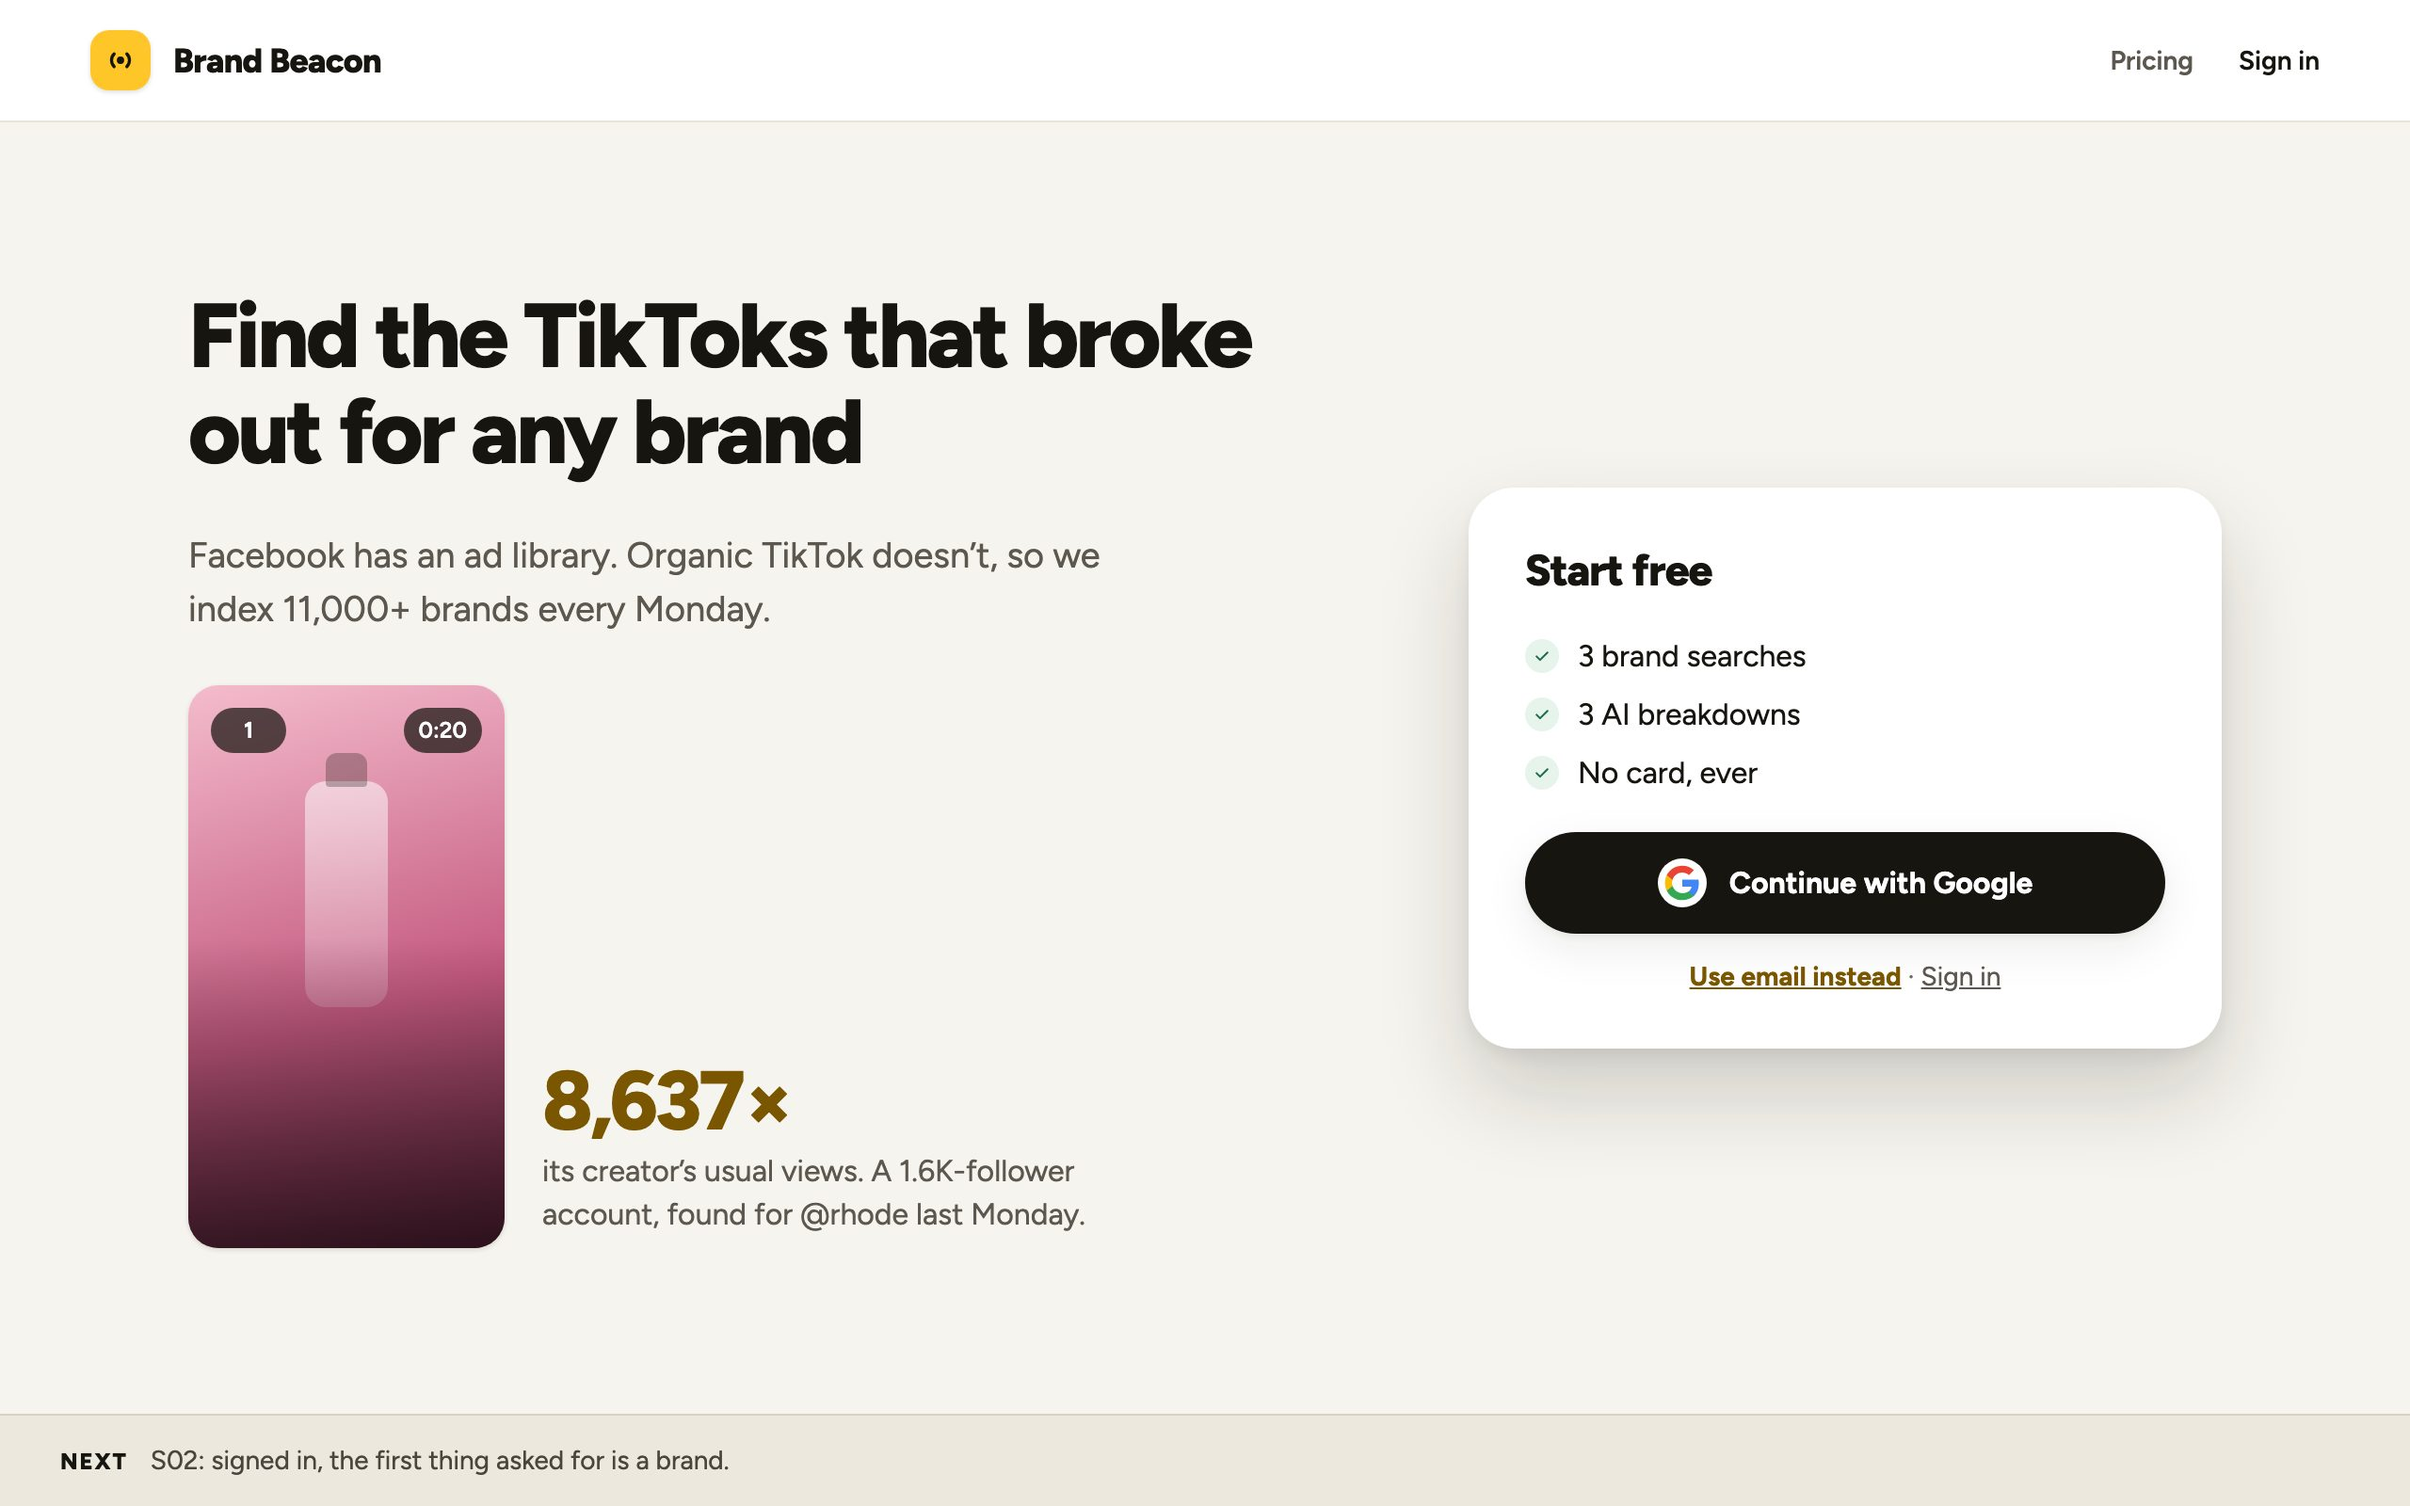
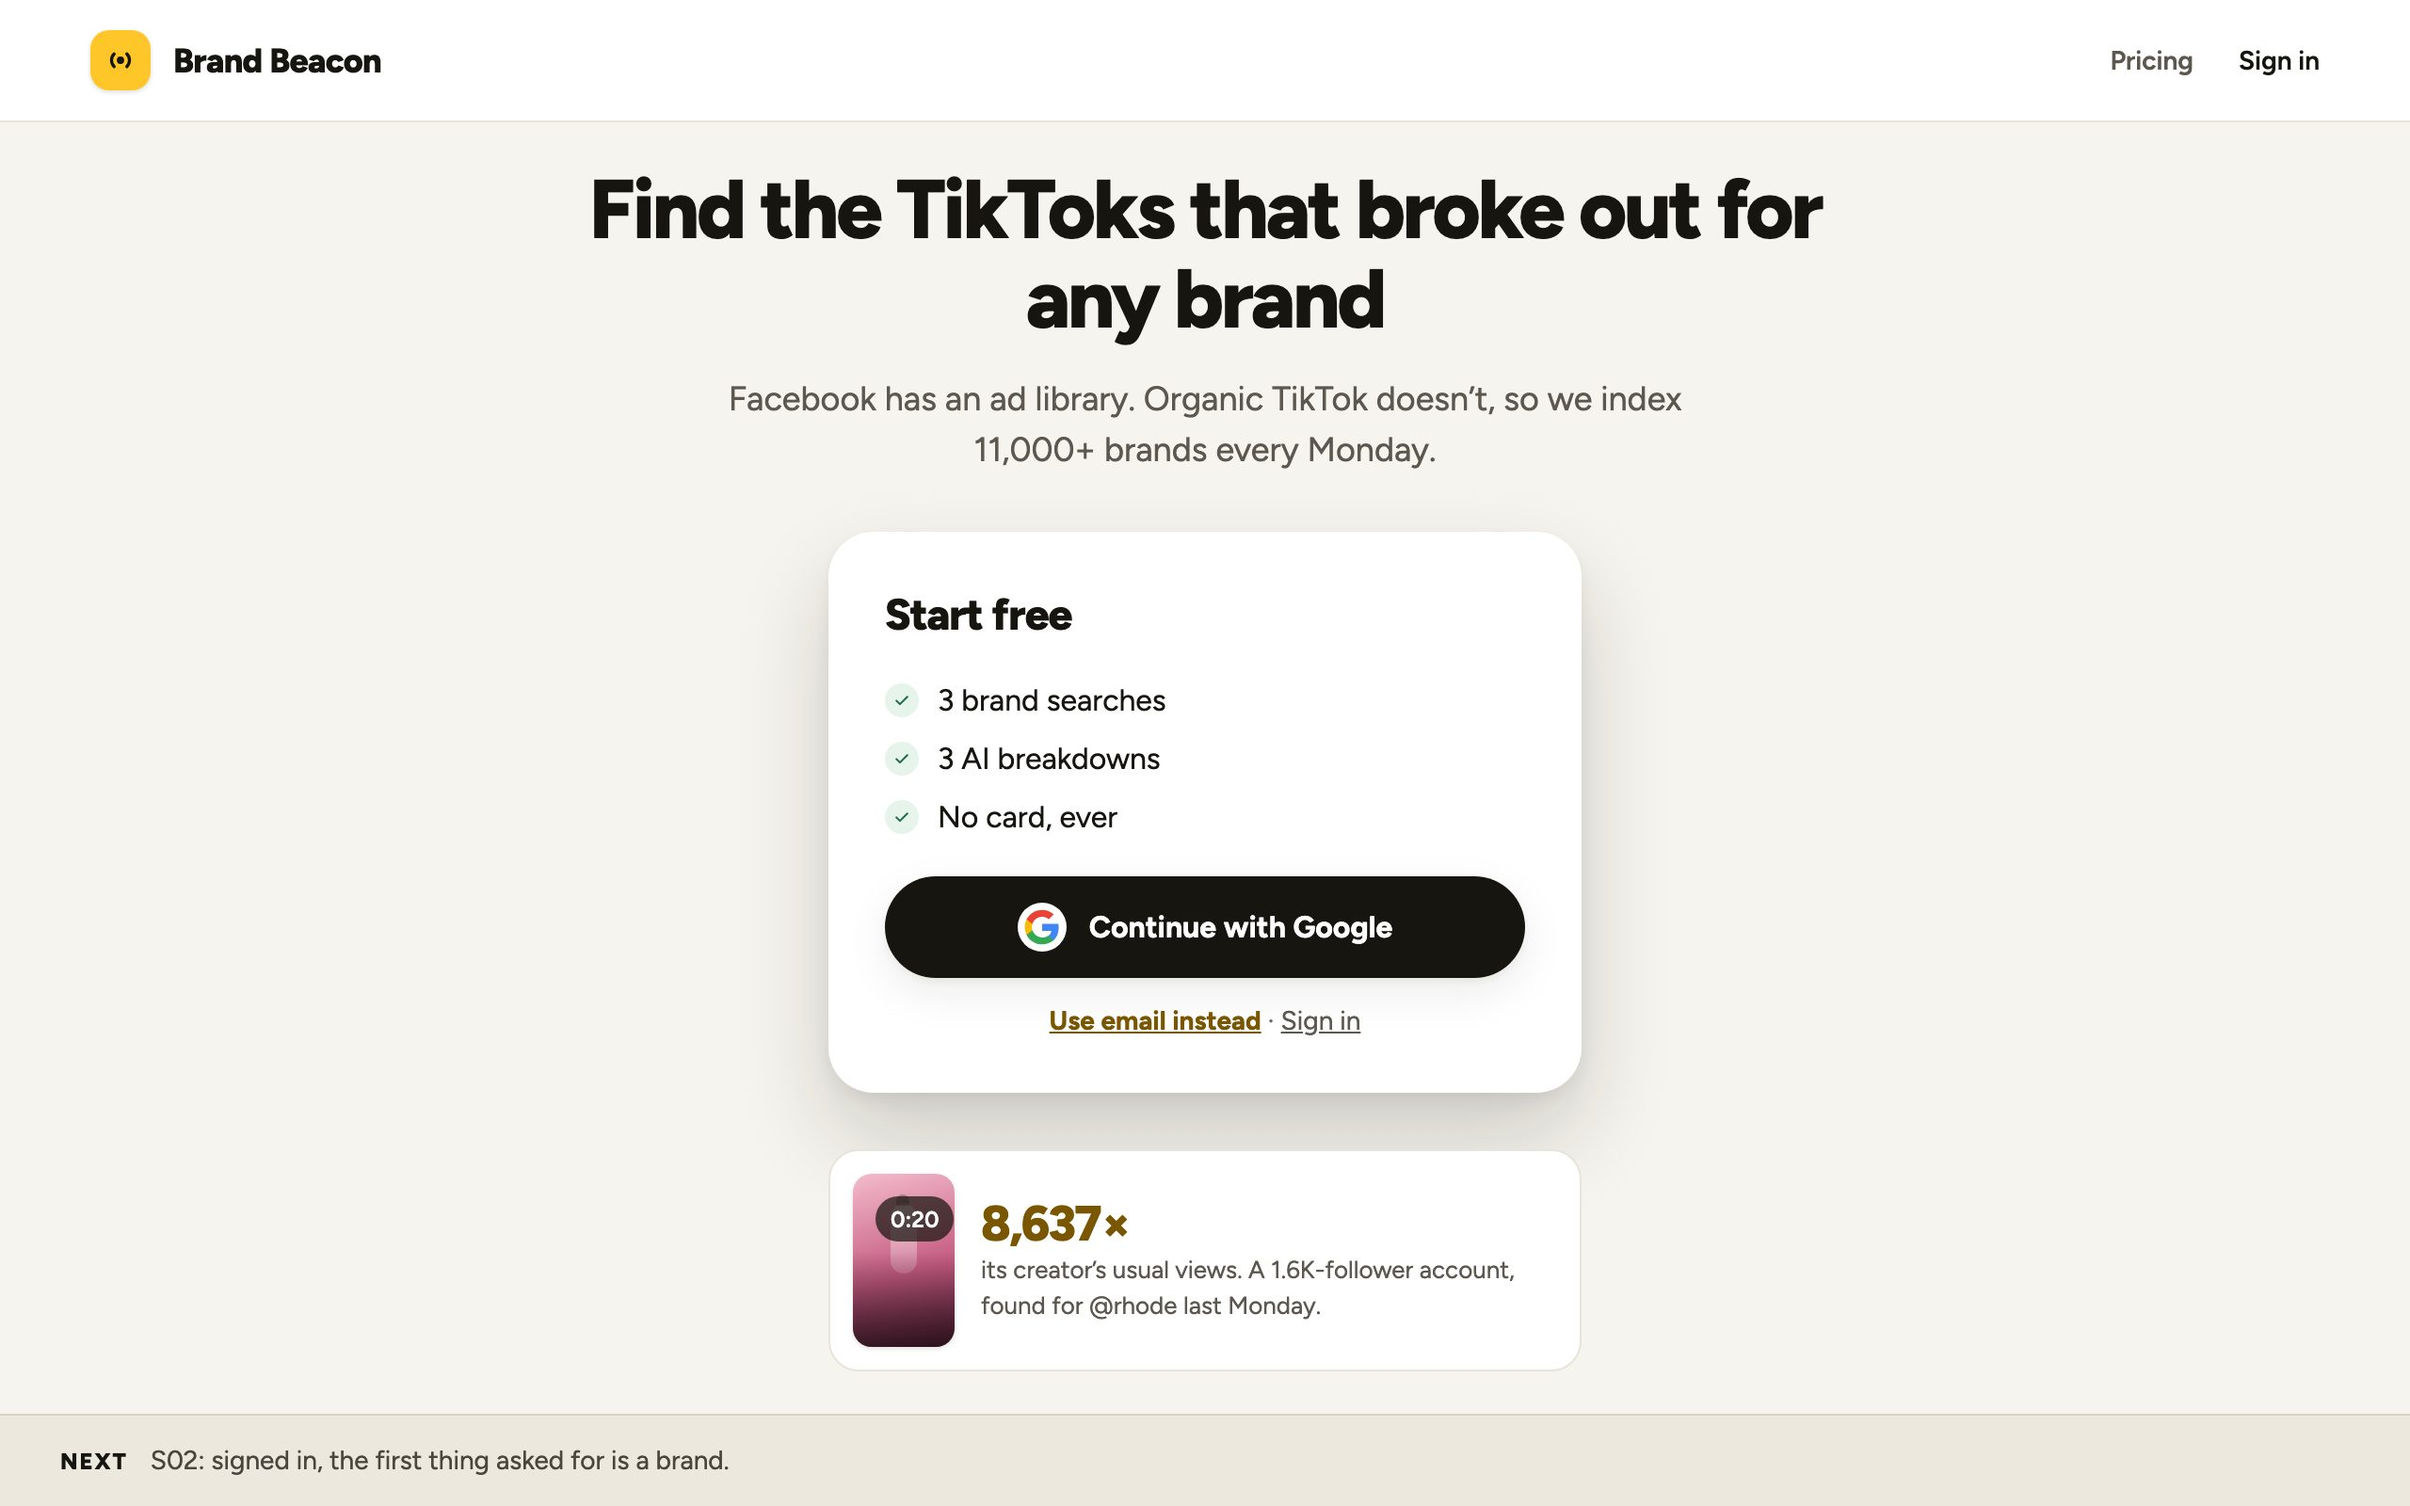
Landing page: one centred column
The two columns had nothing to align to: the card floated against an
L-shaped left side and left a hole in the middle of the page. Now it
is a single axis, claim then action then evidence, with the proof
strip constrained to the same 400px the sign-in card sets. Mobile
follows the same order.

diff --git a/user-flow/src/gen.py b/user-flow/src/gen.py
@@ -345,7 +345,7 @@ def signin_card(w=400, mobile=False):
     gets = ['3 brand searches', '3 AI breakdowns', 'No card, ever']
     li = ''.join(f'<li style="display:flex; align-items:center; gap:10px; font-size:{15 if mobile else 16}px;">{check_dot(18)}{g}</li>' for g in gets)
     return (f'<div style="width:{"100%" if mobile else str(w) + "px"}; box-sizing:border-box; background:{SURF}; border-radius:24px; '
-            f'padding:{22 if mobile else 30}px; box-shadow:{SH3}; display:flex; flex-direction:column; gap:{18 if mobile else 22}px;">'
+            f'padding:{22 if mobile else 30}px; box-shadow:{SH3}; display:flex; flex-direction:column; gap:{18 if mobile else 22}px; text-align:left;">'
             f'<span style="font-size:{21 if mobile else 23}px; font-weight:800; letter-spacing:-0.02em;">Start free</span>'
             f'<ul style="margin:0; padding:0; list-style:none; display:flex; flex-direction:column; gap:12px;">{li}</ul>'
             f'<div style="display:flex; flex-direction:column; gap:14px;">{google_btn(True, 54, 16, solid=True)}'
@@ -395,22 +395,28 @@ def plan_wall(title, body, mobile=False):
             f'<span style="font-size:{12 if mobile else 13}px; color:{T3}; text-align:center;">Cancel any time. Your searches and breakdowns stay.</span></div>')
 
 # =================== DESKTOP ===================
+def proof_strip(mobile=False):
+    """One quiet line of evidence under the card, not a second column."""
+    pal = TILES[0][0]
+    return (f'<div style="display:flex; align-items:center; gap:{12 if mobile else 14}px; width:{"100%" if mobile else "400px"}; '
+            f'box-sizing:border-box; background:{SURF}; border:1px solid {LINE}; '
+            f'border-radius:{14 if mobile else 16}px; padding:{10 if mobile else 12}px {14 if mobile else 16}px {10 if mobile else 12}px {10 if mobile else 12}px;">'
+            f'{tile(48 if mobile else 54, pal, "", "", "0:20", None, small=True, h=82 if mobile else 92, radius=10)}'
+            f'<span style="display:flex; flex-direction:column; gap:1px; text-align:left;">'
+            f'<span style="font-size:{22 if mobile else 26}px; font-weight:800; color:{Y_TXT}; letter-spacing:-0.03em; line-height:1.1;">8,637&times;</span>'
+            f'<span style="font-size:{13 if mobile else 13}px; color:{T2}; line-height:1.45;">its creator&rsquo;s usual views. '
+            f'A 1.6K-follower account, found for @rhode last Monday.</span></span></div>')
+
 def d01():
-    """S01. Was eighteen competing elements; now two zones."""
-    pal, cap, hd, sc, fol = TILES[0]
-    proof = (f'<div style="display:flex; align-items:flex-end; gap:20px;">'
-             f'{tile(168, pal, "", "", "0:20", None, rank=1, h=299)}'
-             f'<div style="display:flex; flex-direction:column; gap:4px; padding-bottom:6px;">'
-             f'<span style="font-size:44px; font-weight:800; color:{Y_TXT}; letter-spacing:-0.035em; line-height:1;">8,637&times;</span>'
-             f'<span style="font-size:16px; color:{T2}; line-height:1.45; max-width:19em;">its creator&rsquo;s usual views. '
-             f'A 1.6K-follower account, found for @rhode last Monday.</span></div></div>')
-    left = (f'<div style="width:600px; display:flex; flex-direction:column; gap:26px;">'
-            f'<h1 style="margin:0; font-size:48px; font-weight:800; letter-spacing:-0.035em; line-height:1.06;">Find the TikToks that broke out for any brand</h1>'
-            f'<p style="margin:0; font-size:19px; color:{T2}; line-height:1.5; max-width:26em;">Facebook has an ad library. Organic TikTok doesn&rsquo;t, '
-            f'so we index 11,000+ brands every Monday.</p>{proof}</div>')
+    """S01. One centred column: claim, action, evidence. No second column to align to."""
+    head = (f'<div style="display:flex; flex-direction:column; align-items:center; gap:16px; text-align:center; max-width:720px;">'
+            f'<h1 style="margin:0; font-size:44px; font-weight:800; letter-spacing:-0.035em; line-height:1.08;">Find the TikToks that broke out for any brand</h1>'
+            f'<p style="margin:0; font-size:18px; color:{T2}; line-height:1.5; max-width:30em;">Facebook has an ad library. Organic TikTok doesn&rsquo;t, '
+            f'so we index 11,000+ brands every Monday.</p></div>')
     inner = (topnav(right=f'<a href="#" style="font-size:14px; font-weight:600; color:{T2}; text-decoration:none;">Pricing</a>'
                           f'<a href="#" style="font-size:14px; font-weight:600; color:{INK}; text-decoration:none;">Sign in</a>')
-             + f'<div style="flex-grow:1; display:flex; align-items:center; justify-content:center; gap:80px; padding:0 72px;">{left}{signin_card()}</div>')
+             + f'<div style="flex-grow:1; display:flex; flex-direction:column; align-items:center; justify-content:center; gap:30px; padding:0 48px;">'
+             f'{head}{signin_card()}{proof_strip()}</div>')
     return root(inner, 'S02: signed in, the first thing asked for is a brand.')
 
 def d01b():
@@ -605,18 +611,11 @@ def d09():
 
 # =================== MOBILE ===================
 def m01():
-    pal, cap, hd, sc, fol = TILES[0]
-    proof = (f'<div style="display:flex; gap:16px; align-items:center;">'
-             f'{tile(92, pal, "", "", "0:20", None, small=True, h=156, radius=12)}'
-             f'<span style="display:flex; flex-direction:column; gap:2px; min-width:0;">'
-             f'<span style="font-size:32px; font-weight:800; color:{Y_TXT}; letter-spacing:-0.03em; line-height:1;">8,637&times;</span>'
-             f'<span style="font-size:14px; color:{T2}; line-height:1.45;">its creator&rsquo;s usual views. A 1.6K-follower account, found for @rhode.</span></span></div>')
     inner = (topnav(True, f'<a href="#" style="font-size:14px; font-weight:700; color:{INK}; text-decoration:none;">Sign in</a>')
-             + f'<div style="flex-grow:1; padding:24px 16px; display:flex; flex-direction:column; gap:22px; overflow:hidden;">'
-             f'<div style="display:flex; flex-direction:column; gap:12px;">'
+             + f'<div style="flex-grow:1; padding:26px 16px; display:flex; flex-direction:column; align-items:center; gap:20px; overflow:hidden; text-align:center;">'
              f'<h1 style="margin:0; font-size:30px; font-weight:800; letter-spacing:-0.03em; line-height:1.1;">Find the TikToks that broke out for any brand</h1>'
-             f'<p style="margin:0; font-size:16px; color:{T2}; line-height:1.5;">Facebook has an ad library. Organic TikTok doesn&rsquo;t, so we index 11,000+ brands every Monday.</p></div>'
-             f'{proof}{signin_card(mobile=True)}</div>')
+             f'<p style="margin:0; font-size:16px; color:{T2}; line-height:1.5;">Facebook has an ad library. Organic TikTok doesn&rsquo;t, so we index 11,000+ brands every Monday.</p>'
+             f'{signin_card(mobile=True)}{proof_strip(True)}</div>')
     return root(inner, 'M2: signed in, the first thing asked for is a brand.', True)
 
 def m01b():
